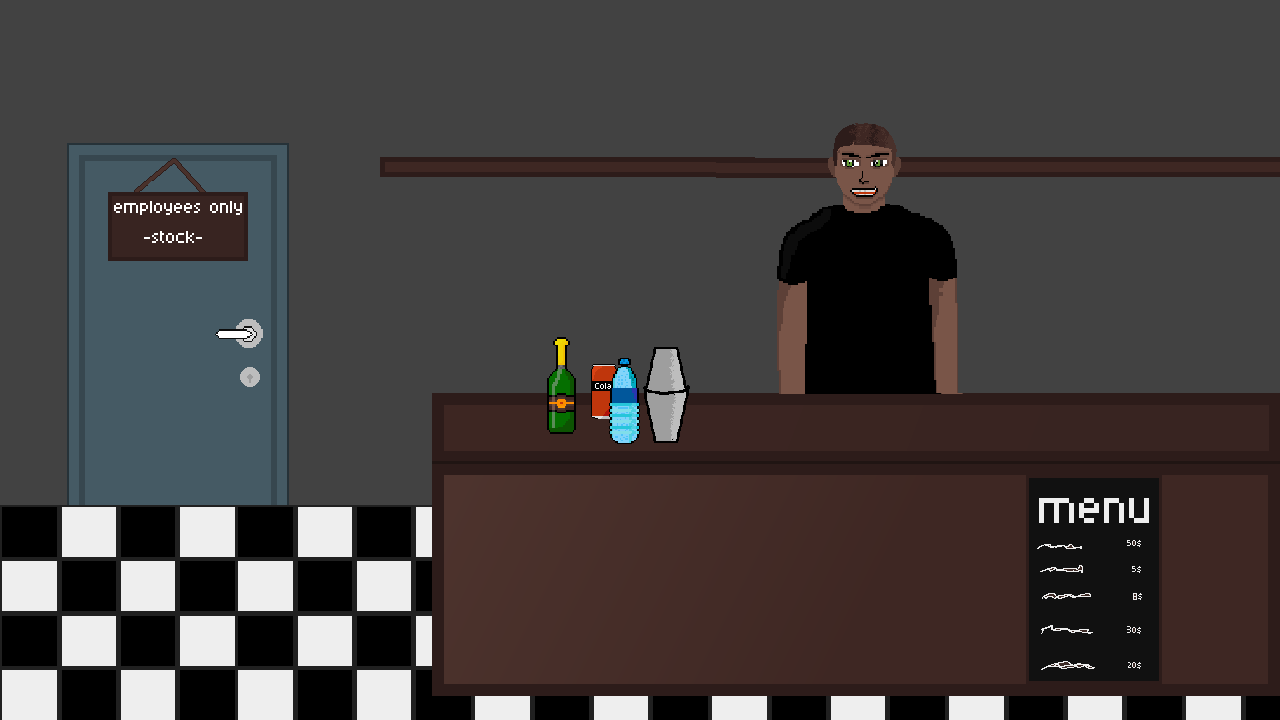
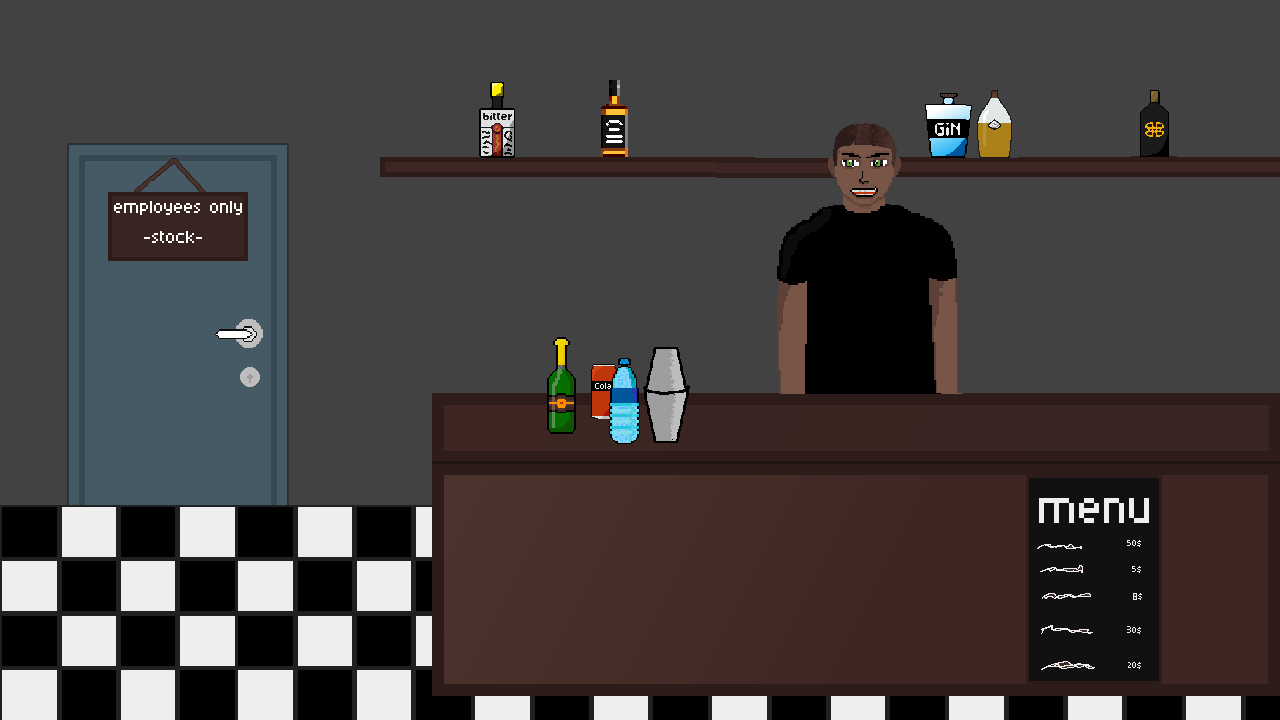
some fine tunes

diff --git a/main.py b/main.py
@@ -24,8 +24,8 @@ if True:
 
 #------loading in assets--------
 
-def convert_asset(pngName, scale):
-    return pygame.transform.scale_by(pygame.image.load(pngName).convert_alpha(), scale)
+def convert_asset(png_name, scale):
+    return pygame.transform.scale_by(pygame.image.load(png_name).convert_alpha(), scale)
 
 def slice_tilesheet(path, tile_width, tile_height):
     sheet = pygame.image.load(path).convert_alpha()
@@ -505,14 +505,14 @@ if True:
     menu_cords = [[20, 20], [650, 20], [20, 369], [650, 369]]
 
     unlocked_ingredients = [
-        {"name": "vodka", "price": 3, "owned": 0},
-        {"name": "gin", "price": 3, "owned": 0},
-        {"name": "orange juice", "price": 1, "owned": 0},
-        {"name": "white rum", "price": 2, "owned": 0},
-        {"name": "cola", "price": 1, "owned": 0},
-        {"name": "tonic water", "price": 1, "owned": 0},
+        {"name": "vodka", "price": 5, "owned": 0},
+        {"name": "gin", "price": 5, "owned": 0},
+        {"name": "orange juice", "price": 2, "owned": 0},
+        {"name": "white rum", "price": 5, "owned": 0},
+        {"name": "cola", "price": 2, "owned": 0},
+        {"name": "tonic water", "price": 2, "owned": 0},
         {"name": "soda water", "price": 1, "owned": 0},
-        {"name": "lime juice", "price": 1, "owned": 0},
+        {"name": "lime juice", "price": 2, "owned": 0},
         {"name": "mint", "price": 1, "owned": 0},
         {"name": "sugar syrup", "price": 1, "owned": 0},
         {"name": "ice", "price": 1, "owned": 0}]
@@ -685,7 +685,6 @@ if True:
     guest_images_list = [1, 2, 3, 4, 5, 6, 7, 8]
     temp_guest_spawn_wait = 0
     temp_guest_timer = 0
-    balance = 0
     x = -1
 
     def client_request_completed(client_name, drink_served_name, star_multiplier):
@@ -1168,52 +1167,70 @@ if True:
             unlocked_ingredients.append({"name": "absinthe", "price": 25, "owned": 0})
 
     def cheat_unlocks():
-            global unlocked_ingredients, customers_served
-            customers_served = 400
-            unlocked_ingredients.clear()
-            unlocked_ingredients.append({"name": "vodka", "price": 1, "owned": 300})
-            unlocked_ingredients.append({"name": "gin", "price": 1, "owned": 300})
-            unlocked_ingredients.append({"name": "orange juice", "price": 1, "owned": 300})
-            unlocked_ingredients.append({"name": "white rum", "price": 1, "owned": 300})
-            unlocked_ingredients.append({"name": "cola", "price": 1, "owned": 300})
-            unlocked_ingredients.append({"name": "tonic water", "price": 1, "owned": 300})
-            unlocked_ingredients.append({"name": "soda water", "price": 1, "owned": 300})
-            unlocked_ingredients.append({"name": "lime juice", "price": 1, "owned": 300})
-            unlocked_ingredients.append({"name": "mint", "price": 1, "owned": 300})
-            unlocked_ingredients.append({"name": "sugar syrup", "price": 1, "owned": 300})
-            unlocked_ingredients.append({"name": "ice", "price": 1, "owned": 300})
-            unlocked_ingredients.append({"name": "tequila", "price": 1, "owned": 300})
-            unlocked_ingredients.append({"name": "ginger beer", "price": 1, "owned": 300})
-            unlocked_ingredients.append({"name": "grenadine", "price": 1, "owned": 300})
-            unlocked_ingredients.append({"name": "lemon juice", "price": 1, "owned": 300})
-            unlocked_ingredients.append({"name": "lime", "price": 1, "owned": 300})
-            unlocked_ingredients.append({"name": "apple juice", "price": 1, "owned": 300})
-            unlocked_ingredients.append({"name": "triple sec", "price": 1, "owned": 300})
-            unlocked_ingredients.append({"name": "cranberry juice", "price": 1, "owned": 300})
-            unlocked_ingredients.append({"name": "pineapple juice", "price": 1, "owned": 300})
-            unlocked_ingredients.append({"name": "dark rum", "price": 1, "owned": 300})
-            unlocked_ingredients.append({"name": "mango juice", "price": 1, "owned": 300})
-            unlocked_ingredients.append({"name": "whiskey", "price": 1, "owned": 300})
-            unlocked_ingredients.append({"name": "amaretto", "price": 1, "owned": 300})
-            unlocked_ingredients.append({"name": "coconut cream", "price": 1, "owned": 300})
-            unlocked_ingredients.append({"name": "egg white", "price": 1, "owned": 300})
-            unlocked_ingredients.append({"name": "champagne", "price": 1, "owned": 300})
-            unlocked_ingredients.append({"name": "passionfruit juice", "price": 1, "owned": 300})
-            unlocked_ingredients.append({"name": "kahlúa", "price": 1, "owned": 300})
-            unlocked_ingredients.append({"name": "cream", "price": 1, "owned": 300})
-            unlocked_ingredients.append({"name": "baileys", "price": 1, "owned": 300})
-            unlocked_ingredients.append({"name": "grapefruit juice", "price": 1, "owned": 300})
-            unlocked_ingredients.append({"name": "bitters", "price": 1, "owned": 300})
-            unlocked_ingredients.append({"name": "prosecco", "price": 1, "owned": 300})
-            unlocked_ingredients.append({"name": "peach schnapps", "price": 1, "owned": 300})
-            unlocked_ingredients.append({"name": "peach juice", "price": 1, "owned": 300})
-            unlocked_ingredients.append({"name": "elderflower liqueur", "price": 1, "owned": 300})
-            unlocked_ingredients.append({"name": "blue curaçao", "price": 1, "owned": 300})
-            unlocked_ingredients.append({"name": "midori", "price": 1, "owned": 300})
-            unlocked_ingredients.append({"name": "campari", "price": 1, "owned": 300})
-            unlocked_ingredients.append({"name": "dry vermouth", "price": 1, "owned": 300})
-            unlocked_ingredients.append({"name": "sweet vermouth", "price": 1, "owned": 300})
-            unlocked_ingredients.append({"name": "absinthe", "price": 1, "owned": 300})
+        global unlocked_ingredients, customers_served
+        customers_served = 400
+        unlocked_ingredients.clear()
+
+        # start ingredients
+        unlocked_ingredients.append({"name": "vodka", "price": 5, "owned": 300})
+        unlocked_ingredients.append({"name": "gin", "price": 5, "owned": 300})
+        unlocked_ingredients.append({"name": "orange juice", "price": 2, "owned": 300})
+        unlocked_ingredients.append({"name": "white rum", "price": 5, "owned": 300})
+        unlocked_ingredients.append({"name": "cola", "price": 2, "owned": 300})
+        unlocked_ingredients.append({"name": "tonic water", "price": 2, "owned": 300})
+        unlocked_ingredients.append({"name": "soda water", "price": 1, "owned": 300})
+        unlocked_ingredients.append({"name": "lime juice", "price": 2, "owned": 300})
+        unlocked_ingredients.append({"name": "mint", "price": 1, "owned": 300})
+        unlocked_ingredients.append({"name": "sugar syrup", "price": 1, "owned": 300})
+        unlocked_ingredients.append({"name": "ice", "price": 1, "owned": 300})
+
+        # group 1
+        unlocked_ingredients.append({"name": "tequila", "price": 6, "owned": 300})
+        unlocked_ingredients.append({"name": "ginger beer", "price": 5, "owned": 300})
+        unlocked_ingredients.append({"name": "grenadine", "price": 5, "owned": 300})
+        unlocked_ingredients.append({"name": "lemon juice", "price": 2, "owned": 300})
+        unlocked_ingredients.append({"name": "lime", "price": 2, "owned": 300})
+        unlocked_ingredients.append({"name": "apple juice", "price": 2, "owned": 300})
+
+        # group 2
+        unlocked_ingredients.append({"name": "triple sec", "price": 8, "owned": 300})
+        unlocked_ingredients.append({"name": "cranberry juice", "price": 2, "owned": 300})
+        unlocked_ingredients.append({"name": "pineapple juice", "price": 2, "owned": 300})
+        unlocked_ingredients.append({"name": "dark rum", "price": 7, "owned": 300})
+        unlocked_ingredients.append({"name": "mango juice", "price": 2, "owned": 300})
+
+        # group 3
+        unlocked_ingredients.append({"name": "whiskey", "price": 10, "owned": 300})
+        unlocked_ingredients.append({"name": "amaretto", "price": 10, "owned": 300})
+        unlocked_ingredients.append({"name": "coconut cream", "price": 2, "owned": 300})
+        unlocked_ingredients.append({"name": "egg white", "price": 2, "owned": 300})
+        unlocked_ingredients.append({"name": "champagne", "price": 11, "owned": 300})
+        unlocked_ingredients.append({"name": "passionfruit juice", "price": 2, "owned": 300})
+
+        # group 4
+        unlocked_ingredients.append({"name": "kahlúa", "price": 12, "owned": 300})
+        unlocked_ingredients.append({"name": "cream", "price": 2, "owned": 300})
+        unlocked_ingredients.append({"name": "baileys", "price": 13, "owned": 300})
+        unlocked_ingredients.append({"name": "grapefruit juice", "price": 3, "owned": 300})
+        unlocked_ingredients.append({"name": "bitters", "price": 3, "owned": 300})
+
+        # group 5
+        unlocked_ingredients.append({"name": "prosecco", "price": 14, "owned": 300})
+        unlocked_ingredients.append({"name": "peach schnapps", "price": 15, "owned": 300})
+        unlocked_ingredients.append({"name": "peach juice", "price": 3, "owned": 300})
+        unlocked_ingredients.append({"name": "elderflower liqueur", "price": 14, "owned": 300})
+
+        # group 6
+        unlocked_ingredients.append({"name": "blue curaçao", "price": 17, "owned": 300})
+        unlocked_ingredients.append({"name": "midori", "price": 18, "owned": 300})
+
+        # group 7
+        unlocked_ingredients.append({"name": "campari", "price": 20, "owned": 300})
+        unlocked_ingredients.append({"name": "dry vermouth", "price": 19, "owned": 300})
+        unlocked_ingredients.append({"name": "sweet vermouth", "price": 19, "owned": 300})
+
+        # group 8
+        unlocked_ingredients.append({"name": "absinthe", "price": 25, "owned": 300})
 
 #---------recipe book system---------
 
@@ -1510,7 +1527,7 @@ if True:
 
     def display_homescreen():
         global screen_displayed_now, progress_rect, selected_cocktail_ingredient, selected_cocktail_ingredient_page, backup_ingredients, running, settings_button_clicked, settings_button_clicktime, save_button_clicked, save_button_clicktime, save_exit_button_clicked, save_exit_button_clicktime
-        #--------button variables--------
+        #--------button logic--------
 
         if left_mouse_clicked and stock_screen_button_rect.collidepoint(pos):
             screen_displayed_now = "stock_screen"
@@ -1584,6 +1601,8 @@ if True:
         screen.blit(settings_button_clicked_img if settings_button_clicked else settings_button_img, settings_button_rect)
         username_text = save_detail_font_nums.render(username, True, (255,255,255))
         screen.blit(username_text, (WINDOW_WIDTH - 10 - username_text.get_width(), 10))
+        balance_text = save_detail_font_nums.render(f"$ {balance}", True, (255,255,255))
+        screen.blit(balance_text, ((WINDOW_WIDTH - 10 - balance_text.get_width(), 349)))
         pygame.draw.rect(screen, (100, 0, 0), progress_screen_button_rect, 1)
         if settings["show_leaderboard"]:
             display_leaderboard()
@@ -2001,12 +2020,6 @@ if True:
             screen_displayed_now = "homescreen"
             back_button_clicktime = 0
 
-        money_cheat_rect = pygame.Rect(500, 20, 50, 50)
-
-        if settings["dev_mode"] and right_mouse_clicked and money_cheat_rect.collidepoint(pos):
-            balance += 10000
-            cheat_unlocks()
-
         #--------guest timer-------------
 
         if settings["dev_mode"]:
@@ -2061,7 +2074,6 @@ if True:
                     custom_order_rect
                 )
             screen.blit(guest_images_library[guest["image_num"]], guest_rects_library[guest["rect_num"]])
-        pygame.draw.rect(screen, (255, 0, 0), money_cheat_rect, 1)
         for cocktail in stashed_cocktails:
             if cocktail["name"] == "smudge":
                 screen.blit(pygame.transform.scale_by(smudge_img, 2), (stashed_cocktail_rects[cocktail["num"]].x - 33, stashed_cocktail_rects[cocktail["num"]].y - 33))
@@ -2084,6 +2096,15 @@ if True:
                 earnings_texts_timings[i] -= 1
                 text = save_detail_font_nums.render(f"+{earnings_texts[i]}$", True, (50, 180, 50))
                 screen.blit(text, ((guest_rects_library[i + 1].x + guest_rects_library[i + 1].width / 2) - text.get_width() / 2, 250))
+        if settings["dev_mode"]:
+            rect_offset = 15
+            money_cheat_text = leaderboard_items_font.render("money cheat - dev mode only", True, (0,0,0))
+            money_cheat_rect = pygame.Rect(WINDOW_WIDTH - money_cheat_text.get_width() - rect_offset * 3, rect_offset, money_cheat_text.get_width() + 2 * rect_offset, money_cheat_text.get_height() + 2 * rect_offset)
+            pygame.draw.rect(screen, (68, 137, 20), money_cheat_rect, border_radius=5)
+            screen.blit(money_cheat_text, (money_cheat_rect.x + rect_offset, money_cheat_rect.y + rect_offset))
+            if left_mouse_clicked and money_cheat_rect.collidepoint(pos):
+                balance += 10000
+                cheat_unlocks()
 
     def display_create_username():
         global continue_button2_clicktime, continue_button2_clicked, username, current_username_string, screen_displayed_now, username_error_message
